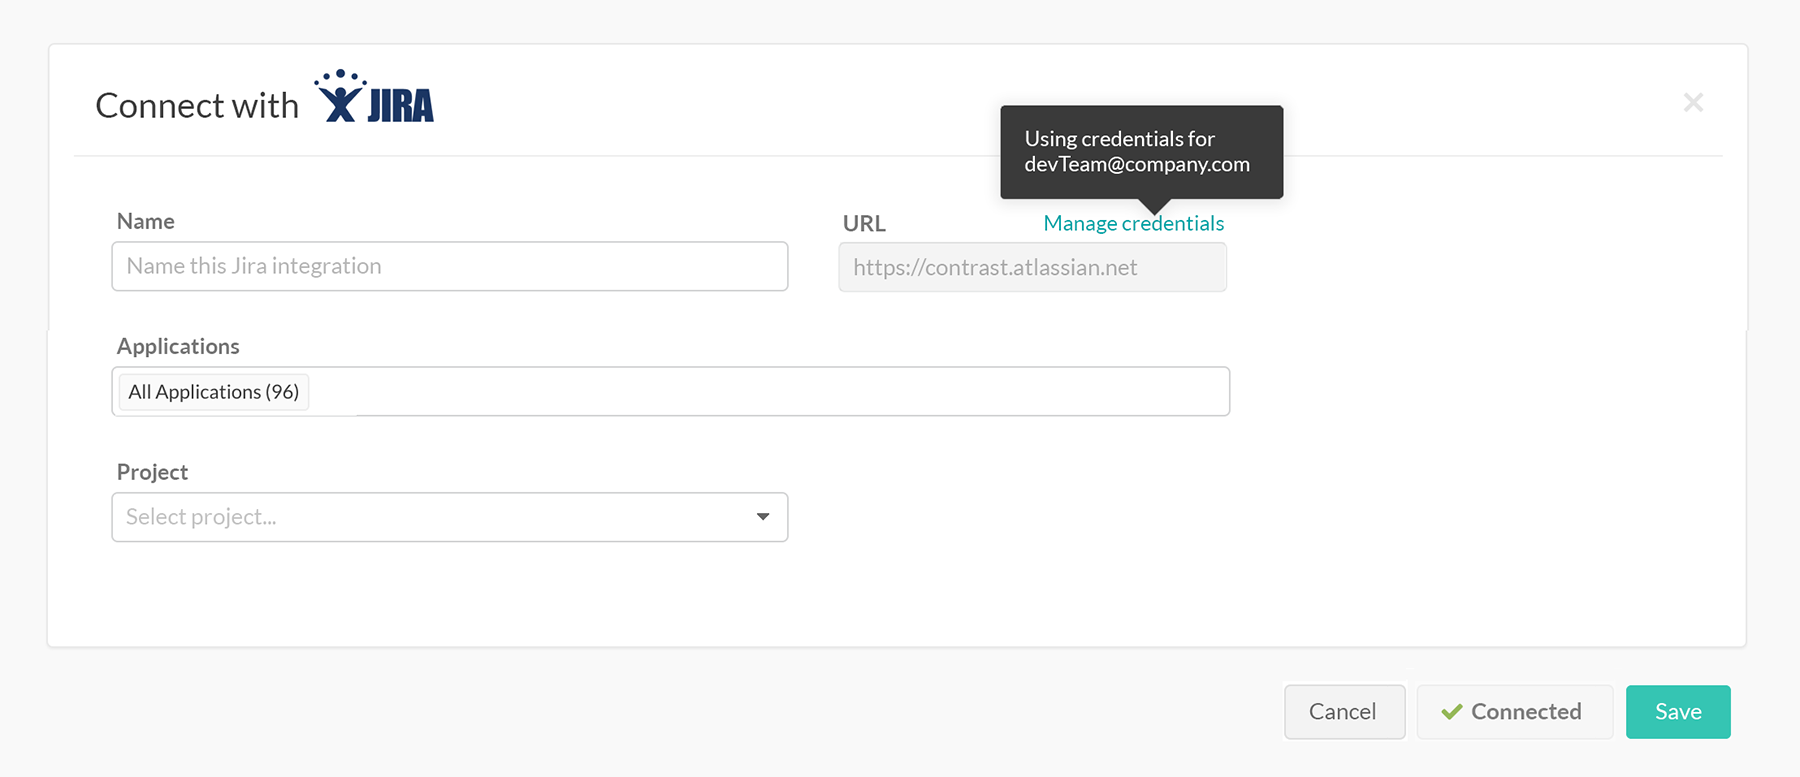
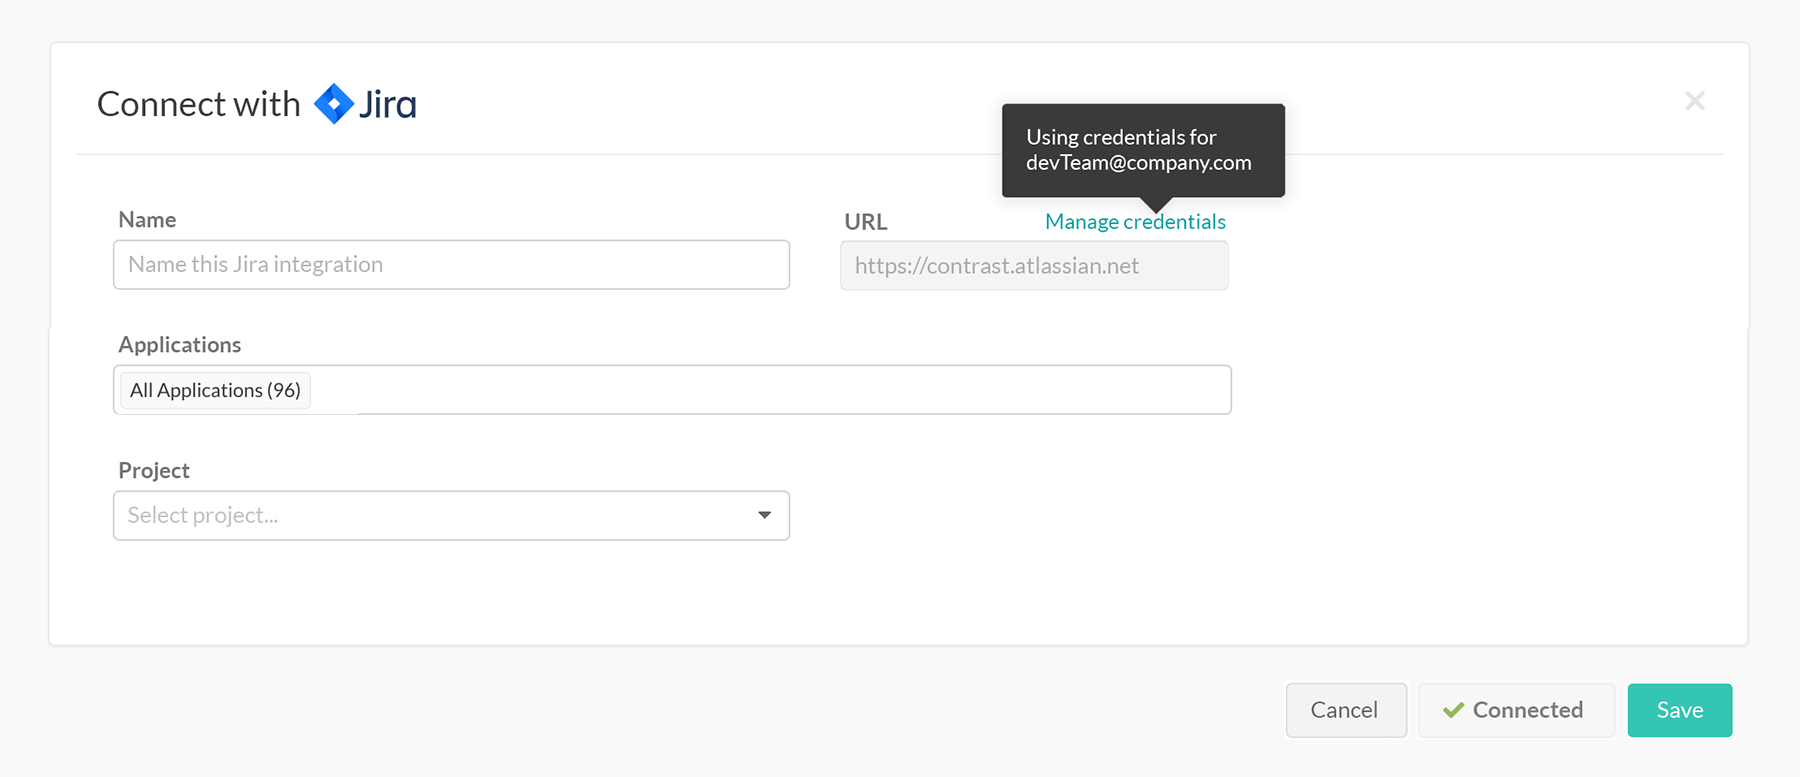
updated images, Jira usage

diff --git a/content/admin/org_settings/integrations/JIRA.md b/content/admin/org_settings/integrations/JIRA.md
@@ -1,42 +1,42 @@
 <!--
-title: "JIRA Integration"
-description: "Integrating JIRA with Contrast"
+title: "Jira Integration"
+description: "Integrating Jira with Contrast"
 tags: "Admin organization settings integrations jira"
 -->
 
 
-Integrate JIRA with Contrast to automatically generate tickets, synchronize comments and push notifications for your applications.
+Integrate Jira with Contrast to automatically generate tickets, synchronize comments and push notifications for your applications.
 
 ## Prerequisites
 
-* JIRA account credentials (username and password)
+* Jira account credentials (username and password)
 * Permission to create issues in the target project
-* A running JIRA instance accessible via HTTP to the Contrast UI
+* A running Jira instance accessible via HTTP to the Contrast UI
 * A project to associate the application instrumented by Contrast
 
 ## Add a Configuration 
 
-In the **Integrations** page, click **Connect** in the JIRA row. In the **Connect with JIRA** form, add the name for the bugtracker entry, the **username** and **password** for the account connected to JIRA in the appropriate fields. The JIRA URL must be accessible from the Contrast UI instance being configured.
+In the **Integrations** page, click **Connect** in the Jira row. In the **Connect with Jira** form, add the name for the bugtracker entry, the **username** and **password** for the account connected to JIRA in the appropriate fields. The JIRA URL must be accessible from the Contrast UI instance being configured.
 
-> **Note:** Contrast saves the username, password and JIRA URL entered in your configuration as a set of credentials. See the ** Credential Sets** section for more details.
+> **Note:** Contrast saves the username, password and Jira URL entered in your configuration as a set of credentials. See the ** Credential Sets** section for more details.
 
-Once you complete the fields, click **Test connection**. This process may take a few moments depending on the number of your JIRA projects. The test verifies that Contrast can reach the JIRA instance and that the specified user is able to log in.
+Once you complete the fields, click **Test connection**. This process may take a few moments depending on the number of your Jira projects. The test verifies that Contrast can reach the Jira instance and that the specified user is able to log in.
+
+<a href="assets/images/Jira-connection-setup.png" rel="lightbox" title="Configure a new Jira integration"><img class="thumbnail" src="assets/images/Jira-connection-setup.png"/></a>
 
 Once a connected, select the **applications** that you want to be available to this integration, and customize the values for the **Project**, **Assignee** and **Default Issue Type** fields. You can also customize the **Default Priority** levels for vulnerability severity and values for **Additional JIRA** fields, such as environment or labels. 
-
-<a href="assets/images/JIRA-integration-set-up.png" rel="lightbox" title="JIRA Integration"><img class="thumbnail" src="assets/images/JIRA-integration-set-up.png"/></a>
 
 > **Note:** If you change the Project or Issue type, required and additional fields are updated. However, the UI keeps the selected values that apply to the new configuration.
 
 ### Two-way integration 
 
-Use two-way integration to automatically update the status of a linked vulnerability when you close or reopen an issue in JIRA. 
+Use two-way integration to automatically update the status of a linked vulnerability when you close or reopen an issue in Jira. 
 
 <a href="assets/images/Two-way-jira-integration.png" rel="lightbox" title="Enable two-way integration"><img class="thumbnail" src="assets/images/Two-way-jira-integration.png"/></a>
 
-In the JIRA configuration page, check the box to **Enable two-way integration**. This generates a URL that appears below the checkbox, which your JIRA administrator must use to register a webhook in JIRA. Clicking the link opens a new tab that takes you to [instructions for registering webhooks](https://developer.atlassian.com/jiradev/jira-apis/webhooks#Webhooks-rest).
+In the Jira configuration page, check the box to **Enable two-way integration**. This generates a URL that appears below the checkbox, which your Jira administrator must use to register a webhook in JIRA. Clicking the link opens a new tab that takes you to [instructions for registering webhooks](https://developer.atlassian.com/jiradev/jira-apis/webhooks#Webhooks-rest).
 
-> **Note:** When you delete a configuration with two-way integration enabled, you must delete the webhook configuration from your JIRA administrator console to completely remove the integration.
+> **Note:** When you delete a configuration with two-way integration enabled, you must delete the webhook configuration from your Jira administrator console to completely remove the integration.
 
 In the fields below, use the dropdown menu to set a vulnerability status based on a JIRA ticket status and resolution pairing. The table below shows the default vulnerability status options in **bold**. 
 
@@ -57,17 +57,17 @@ Once the two-way integration is saved, Contrast will automatically generate comm
 
 #### Multiple vulnerabilities
 
-For multiple vulnerabilities sent to JIRA in bulk as a single issue, the JIRA ticket status applies to all vulnerabilities associated with that ticket. For multiple tickets tied to a single vulnerability, the vulnerability can only be closed when all the tickets are closed.
+For multiple vulnerabilities sent to Jira in bulk as a single issue, the Jira ticket status applies to all vulnerabilities associated with that ticket. For multiple tickets tied to a single vulnerability, the vulnerability can only be closed when all the tickets are closed.
 
 ### Automatically create tickets 
 
-Automatically create tickets in JIRA for newly discovered vulnerabilities by checking the designated box in the configuration form. In the multiselect field that appears, choose the Rule(s) and/or Severity level(s) of the vulnerabilities for which you want to generate tickets. The default selections are **Critical** and **High**.
+Automatically create tickets in Jira for newly discovered vulnerabilities by checking the designated box in the configuration form. In the multiselect field that appears, choose the Rule(s) and/or Severity level(s) of the vulnerabilities for which you want to generate tickets. The default selections are **Critical** and **High**.
 
 >**Note:** This selection doesn't generate tickets retroactively.
 
 ## Credentials
 
-Contrast will save each set of credentials that you enter in your JIRA configurations to help you set up new connections even faster. The username, password and JIRA URL values that you enter in your first configuration become the default credentials for your following configurations. In subsequent configurations, Contrast will auto-populate the fields with the default credentials, but allow you to modify the values as needed. You can also manage your saved sets of credentials to simultaneously update all of the affected configurations. 
+Contrast will save each set of credentials that you enter in your Jira configurations to help you set up new connections even faster. The username, password and Jira URL values that you enter in your first configuration become the default credentials for your following configurations. In subsequent configurations, Contrast will auto-populate the fields with the default credentials, but allow you to modify the values as needed. You can also manage your saved sets of credentials to simultaneously update all of the affected configurations. 
 
 ### Manage credentials
 
@@ -79,9 +79,9 @@ If you're using new credentials, you must choose to override the existing set of
 
 <a href="assets/images/Jira-credentials-dialog.png" rel="lightbox" title="Override default JIRA credentials in your configuration"><img class="thumbnail" src="assets/images/Jira-credentials-dialog.png"/></a>
 
-You can also select the **Manage Credentials** link in the JIRA Integrations row to modify your existing sets of information. In the configuration form, use the dropdown menu to select a set of saved credentials, and modify the fields as needed. Click the link to **Rename** the set of credentials, if needed. 
+You can also select the **Manage Credentials** link in the Jira Integrations row to modify your existing sets of information. In the configuration form, use the dropdown menu to select a set of saved credentials, and modify the fields as needed. Click the link to **Rename** the set of credentials, if needed. 
 
-<!-- Add image -->
+<a href="assets/images/Manage-jira-credentials.png" rel="lightbox" title="Manage saved credentials"><img class="thumbnail" src="assets/images/Manage-jira-credentials.png"/></a>
 
 >**Note:** Any updates to a set of credentials will affect all configurations using that set. 
 
